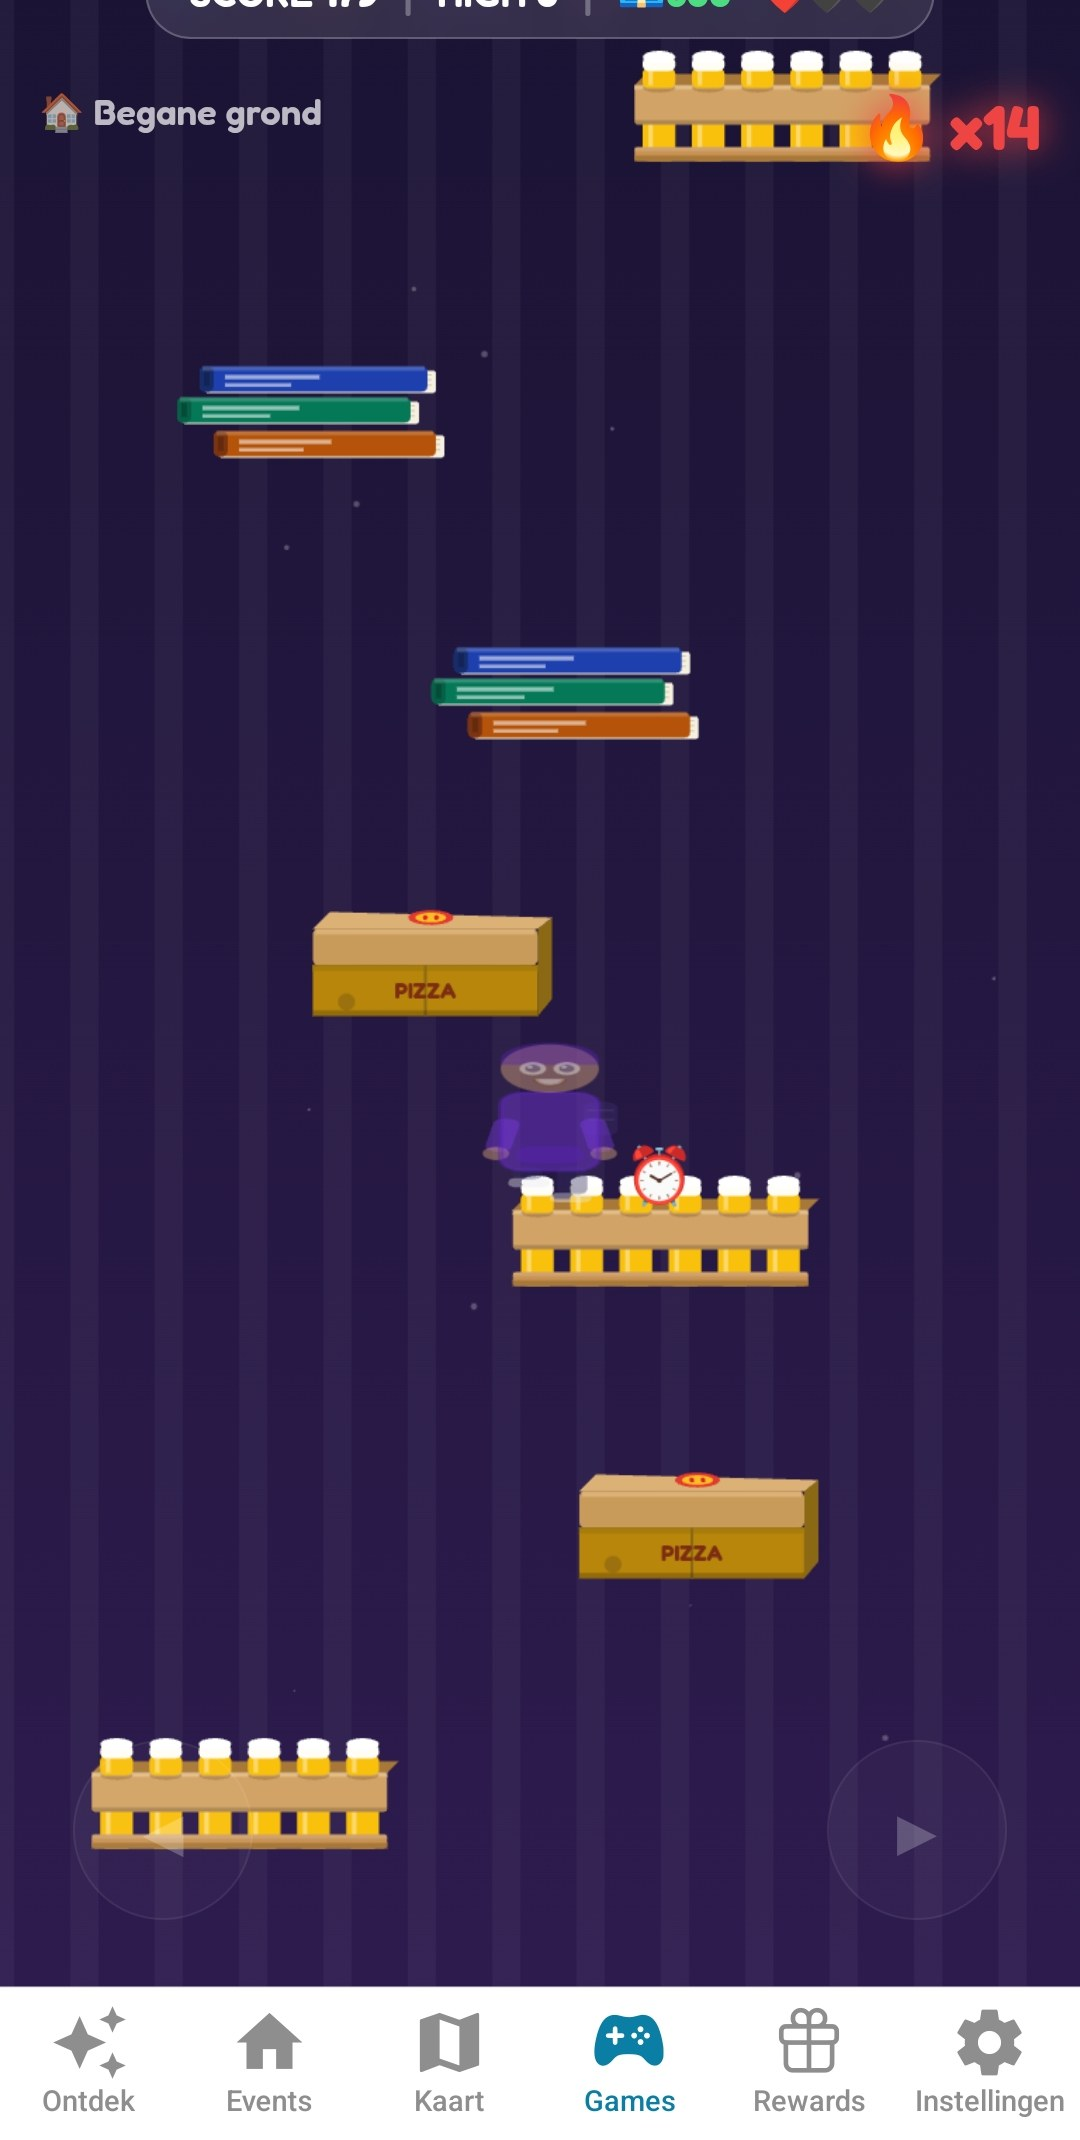
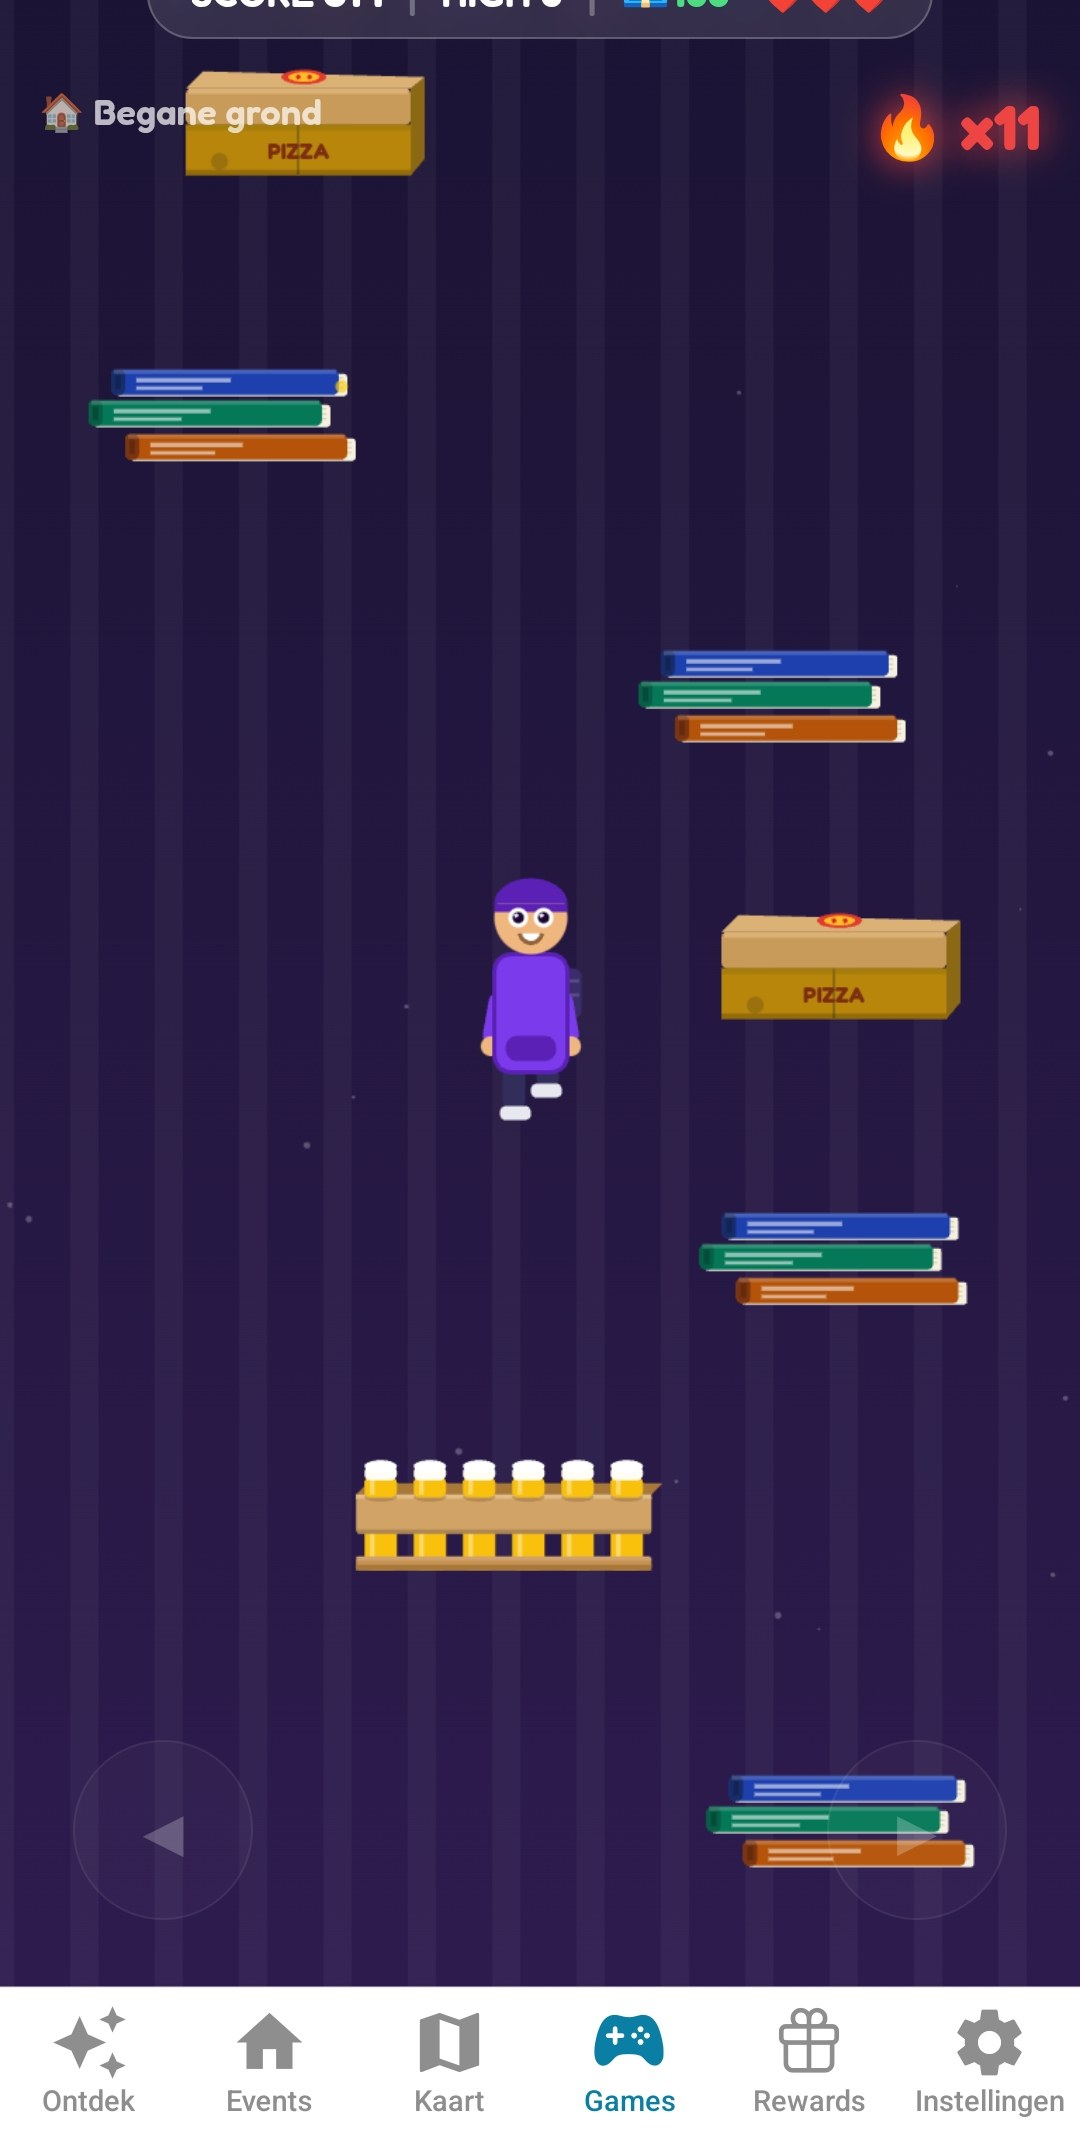
update: new huisfeestje screenshot + pubquiz highlight

diff --git a/index.html b/index.html
@@ -252,10 +252,28 @@ nav.scrolled{background:rgba(6,6,15,.95);box-shadow:0 4px 30px rgba(0,0,0,.5)}
   box-shadow:0 20px 60px rgba(0,0,0,.4);
   border:1px solid rgba(147,51,234,.1);
 }
-.games-caption{
-  max-width:640px;margin:0 auto;text-align:center;
-  color:var(--text-muted);font-size:1.05rem;line-height:1.7;
+.games-highlights{
+  max-width:1100px;margin:0 auto;
+  display:grid;grid-template-columns:repeat(3,1fr);
+  gap:2rem;
 }
+.game-highlight{
+  padding:2rem;
+  background:var(--bg-card);
+  border:1px solid rgba(255,255,255,.04);
+  border-radius:var(--radius-lg);
+}
+.game-highlight-emoji{font-size:2.2rem;margin-bottom:.75rem}
+.game-highlight h3{font-size:1.15rem;font-weight:700;margin-bottom:.6rem}
+.game-highlight p{font-size:.95rem;color:var(--text-muted);line-height:1.6}
+.game-highlight-featured{
+  border:2px solid var(--purple);
+  background:linear-gradient(160deg, rgba(147,51,234,.15), var(--bg-card) 65%);
+  box-shadow:0 10px 40px rgba(147,51,234,.15);
+}
+.game-highlight-featured .game-highlight-emoji{font-size:2.6rem}
+.game-highlight-featured h3{font-size:1.35rem;color:var(--purple-light)}
+.game-highlight-featured p{font-size:1.02rem;color:var(--text)}
 
 /* ═══ HOW IT WORKS ═══ */
 .how{
@@ -395,6 +413,7 @@ footer{
   .showcase-row,.showcase-row.reverse{flex-direction:column;text-align:center;gap:1.5rem}
   .showcase-img{max-width:100%}
   .games-grid{grid-template-columns:1fr}
+  .games-highlights{grid-template-columns:1fr}
 }
 @media(max-width:600px){
   nav{padding:.75rem 1rem}
@@ -539,9 +558,25 @@ footer{
   </div>
   <div class="games-grid fade-up">
     <img src="games-overzicht.jpg" alt="NEXOZ games overzicht" loading="lazy">
-    <img src="huisfeestje-gameplay.jpg" alt="Het Huisfeestje gameplay" loading="lazy">
+    <img src="huisfeestje-gameplay.jpg?v=2" alt="Het Huisfeestje gameplay" loading="lazy">
   </div>
-  <p class="games-caption fade-up">Trivia Duel, Het Huisfeestje en TapQuiz. Bouw een streak op, versla je vrienden en verdien NEXOZ Coins bij elke game.</p>
+  <div class="games-highlights fade-up">
+    <div class="game-highlight game-highlight-featured">
+      <div class="game-highlight-emoji">🍺</div>
+      <h3>TapQuiz — Gratis pubquiz</h3>
+      <p>Organiseer een complete pubquiz met je vrienden. Eén telefoon als quizmaster, de rest speelt mee. Honderden vragen, automatische scores, helemaal gratis.</p>
+    </div>
+    <div class="game-highlight">
+      <div class="game-highlight-emoji">🏠</div>
+      <h3>Het Huisfeestje</h3>
+      <p>Spring via bierkratten, pizzadozen en studieboeken naar boven. Hoe hoog kom jij? Versla je vrienden en verdien coins.</p>
+    </div>
+    <div class="game-highlight">
+      <div class="game-highlight-emoji">🧠</div>
+      <h3>Trivia Duel</h3>
+      <p>Dagelijkse quizvragen over events en muziek. Bouw een streak op en bewijs dat jij de slimste bent.</p>
+    </div>
+  </div>
 </section>
 
 <!-- HOW IT WORKS -->
